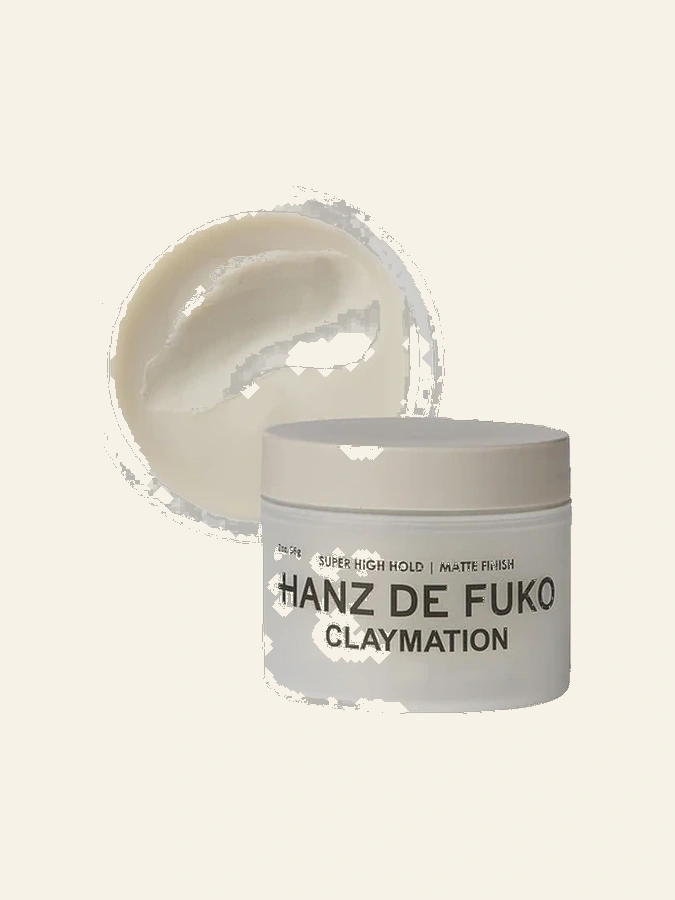
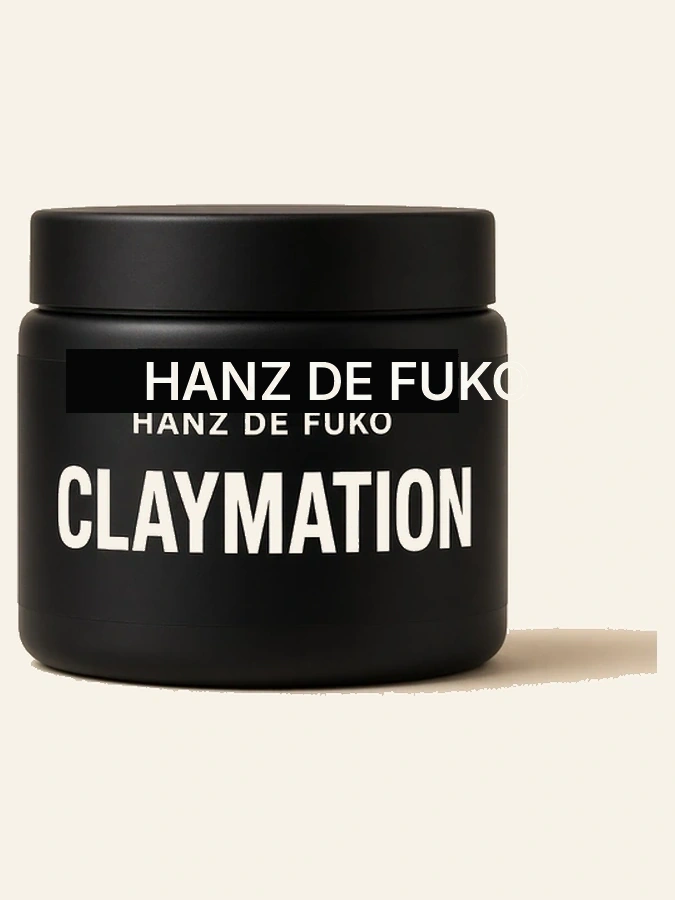
fix: use real Santal 33, Claymation, and readable Tonka packs
JOS-21. Replace the three bottles that still failed QA: the pack
reads Santal 33, the jar title is Claymation, and Reminiscence is
large enough to read on the Tonka bottle. Those cuts are tightened
to the Colonia and Grey Flannel edge.

diff --git a/src/lib/seed.ts b/src/lib/seed.ts
@@ -743,7 +743,7 @@ export function createSampleCloset(): {
     },
     {
       id: "e_clay",
-      name: "Clay Pomade",
+      name: "Claymation",
       brand: "Hanz de Fuko",
       kind: "grooming",
       notes: "Low shine, strong hold.",

diff --git a/src/lib/media.ts b/src/lib/media.ts
@@ -47,7 +47,7 @@ export function usePieceSrc(item: {
   return src;
 }
 
-const v = "v56";
+const v = "v57";
 
 export const SAMPLE_IMAGES: Record<string, string> = {
   g_navy_coat: `/sample/cut/navy-coat.webp?${v}`,
